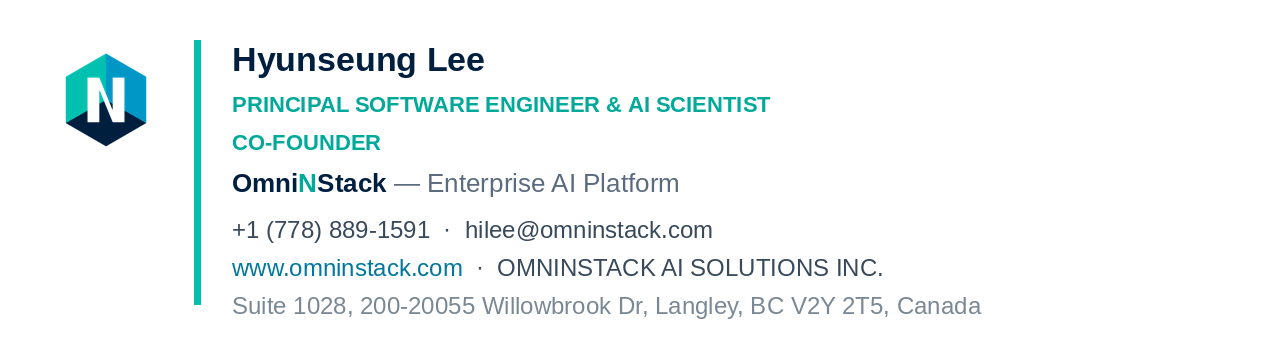
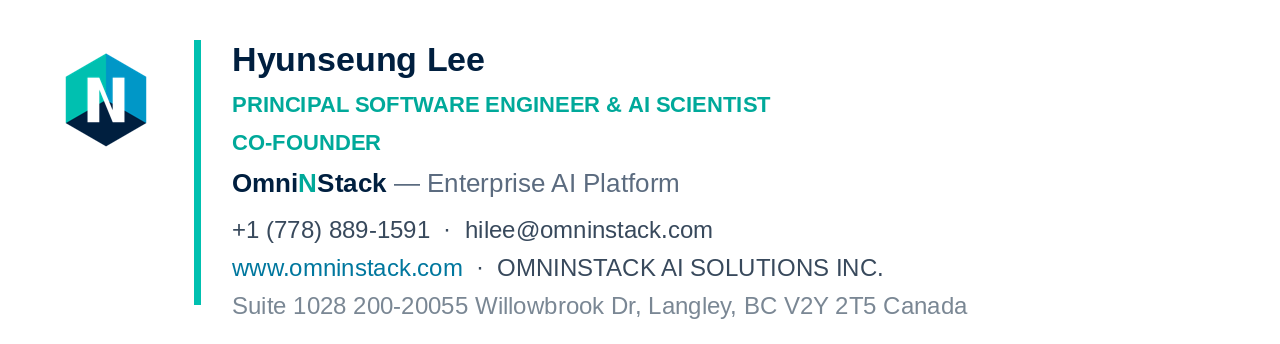
Update all materials: new address

Changed region(s): [[0.2812, 0.843, 0.7812, 0.9302]]

diff --git a/brand-identity/people/hyunseung-lee/email-signature/signature-embedded.html b/brand-identity/people/hyunseung-lee/email-signature/signature-embedded.html
@@ -19,7 +19,7 @@
         <a href="mailto:hilee@omninstack.com" style="color:#38495C; text-decoration:none;">hilee@omninstack.com</a><br>
         <a href="https://www.omninstack.com" style="color:#00779E; text-decoration:none;">www.omninstack.com</a>
         &nbsp;·&nbsp; OMNINSTACK AI SOLUTIONS INC.<br>
-        <span style="color:#7A8794;">Suite 1028, 200-20055 Willowbrook Dr, Langley, BC V2Y 2T5, Canada</span>
+        <span style="color:#7A8794;">Suite 1028 200-20055 Willowbrook Dr, Langley, BC V2Y 2T5 Canada</span>
       </div>
     </td>
   </tr>

diff --git a/brand-identity/people/hyunseung-lee/email-signature/signature.html b/brand-identity/people/hyunseung-lee/email-signature/signature.html
@@ -19,7 +19,7 @@
         <a href="mailto:hilee@omninstack.com" style="color:#38495C; text-decoration:none;">hilee@omninstack.com</a><br>
         <a href="https://www.omninstack.com" style="color:#00779E; text-decoration:none;">www.omninstack.com</a>
         &nbsp;·&nbsp; OMNINSTACK AI SOLUTIONS INC.<br>
-        <span style="color:#7A8794;">Suite 1028, 200-20055 Willowbrook Dr, Langley, BC V2Y 2T5, Canada</span>
+        <span style="color:#7A8794;">Suite 1028 200-20055 Willowbrook Dr, Langley, BC V2Y 2T5 Canada</span>
       </div>
     </td>
   </tr>
